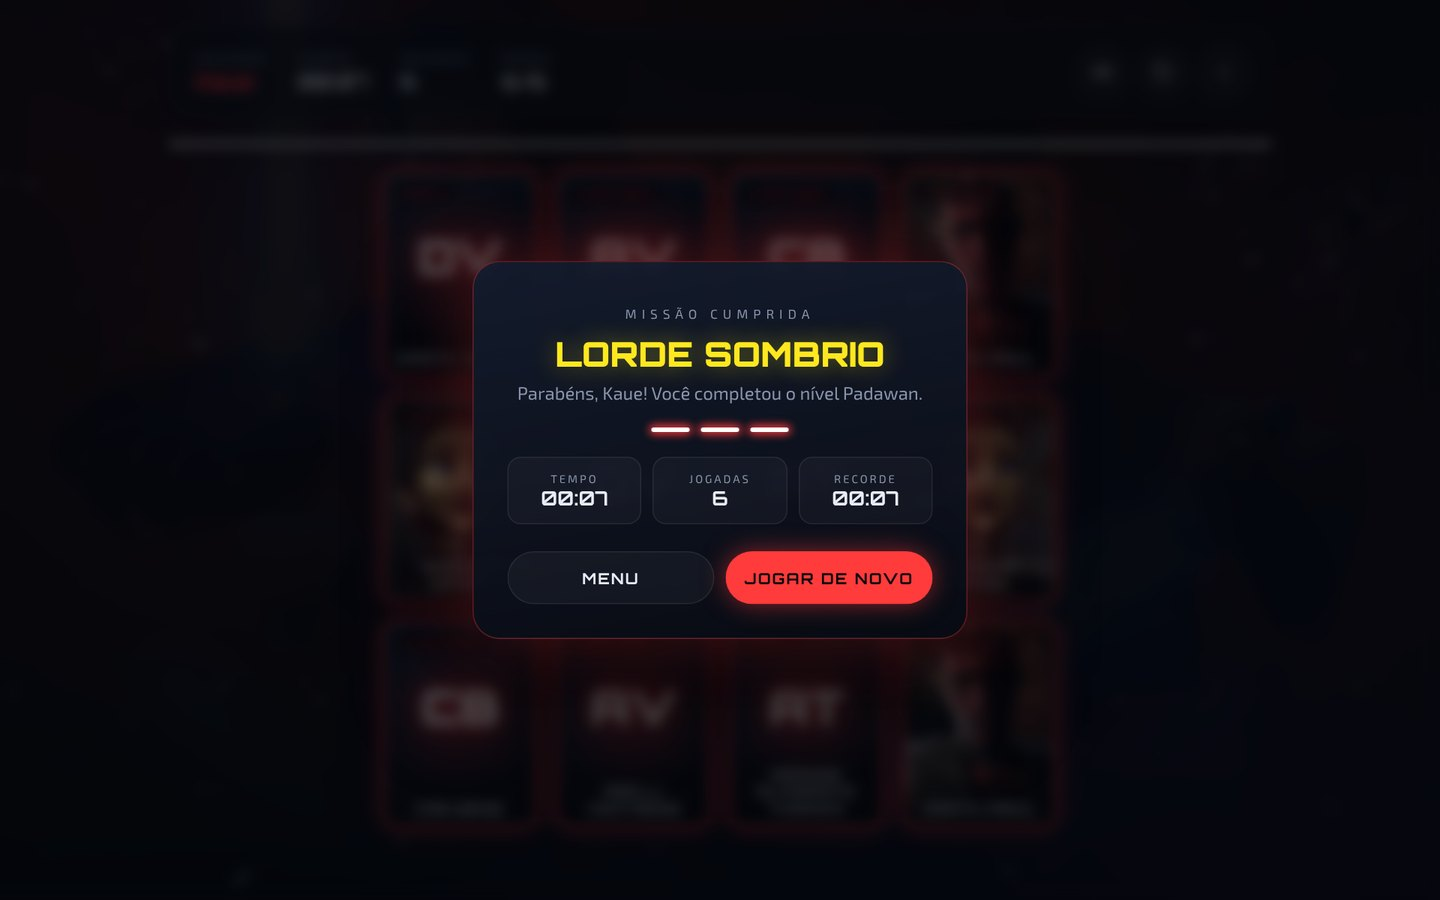
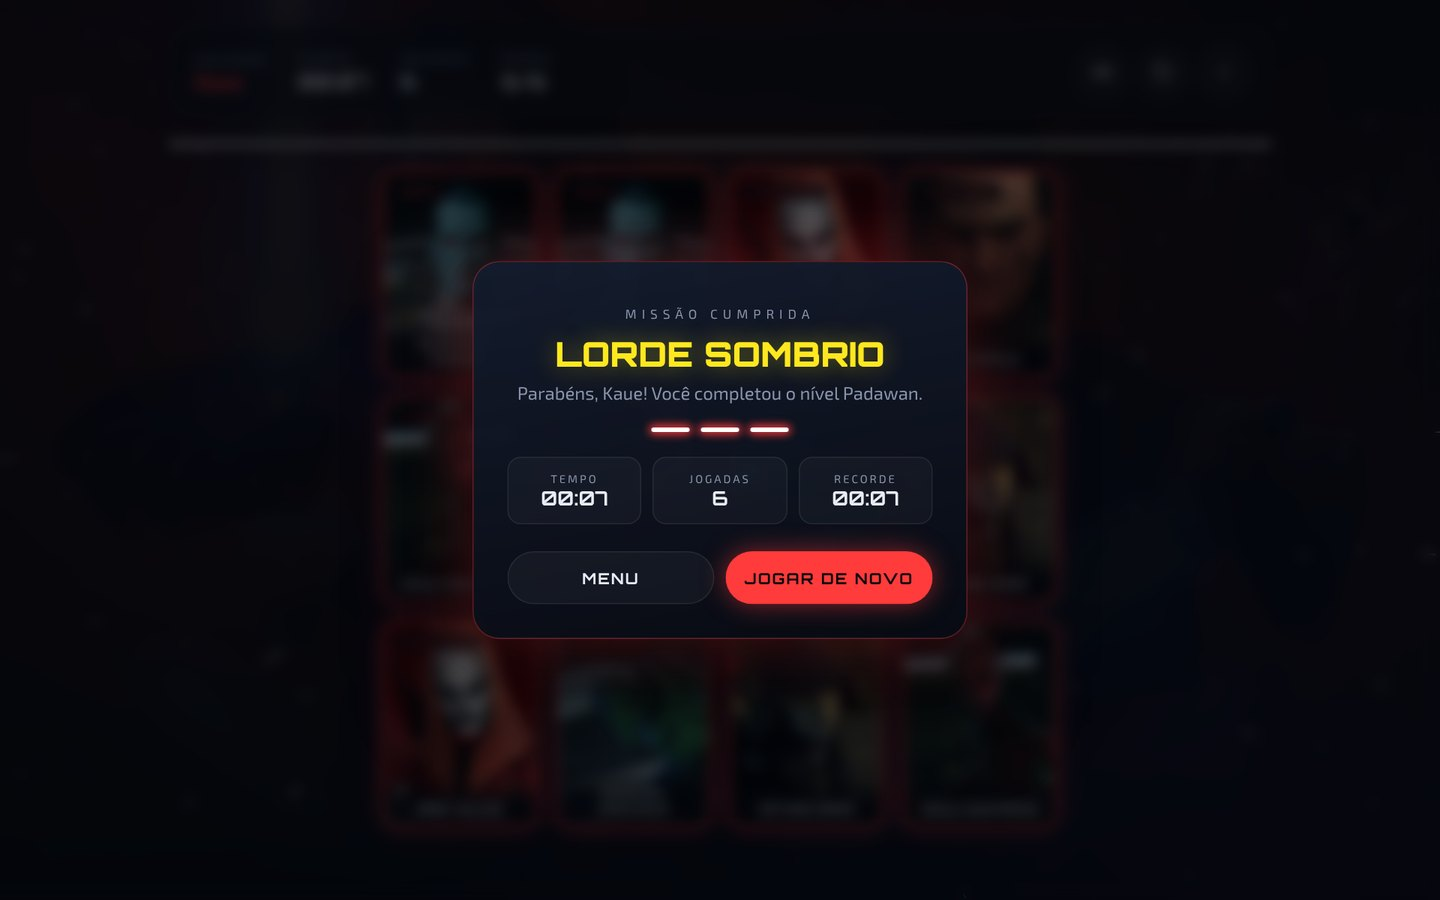
Add files via upload

diff --git a/css/game.css b/css/game.css
@@ -60,6 +60,7 @@
 }
 
 .stat--player .stat__value {
+  font-family: "Exo 2", sans-serif; /* nomes com acento (ã, õ) */
   color: var(--saber);
   text-shadow: 0 0 12px rgba(var(--saber-rgb), 0.5);
   max-width: 220px;
@@ -116,6 +117,7 @@
   background: none;
   cursor: pointer;
   transform-style: preserve-3d;
+  container-type: inline-size;
   /* animação de entrada (distribuição das cartas) */
   opacity: 0;
   animation: deal 0.6s var(--ease-spring) forwards;
@@ -218,7 +220,7 @@
   border-radius: 999px;
   background: rgba(5, 7, 13, 0.75);
   color: var(--saber);
-  font-size: clamp(0.45rem, 0.9vw, 0.6rem);
+  font-size: clamp(6px, 6.5cqi, 10px);
   font-weight: 600;
   letter-spacing: 0.12em;
   text-transform: uppercase;
@@ -249,12 +251,13 @@
 .face__name {
   position: absolute;
   inset: auto 0 0;
-  padding: 26px 8px 8px;
-  background: linear-gradient(transparent, rgba(5, 7, 13, 0.92));
-  font-family: "Orbitron", sans-serif;
-  font-size: clamp(0.5rem, 1.1vw, 0.72rem);
-  font-weight: 700;
-  letter-spacing: 0.1em;
+  padding: 22px 6px 7px;
+  background: linear-gradient(transparent, rgba(5, 7, 13, 0.95) 55%);
+  font-family: "Exo 2", sans-serif;
+  font-size: clamp(7px, 9.5cqi, 13px); /* acompanha a largura da carta */
+  font-weight: 600;
+  line-height: 1.15;
+  letter-spacing: 0.03em;
   text-align: center;
   text-transform: uppercase;
 }
@@ -337,9 +340,10 @@
   background: var(--panel);
   backdrop-filter: blur(10px);
   -webkit-backdrop-filter: blur(10px);
-  font-family: "Orbitron", sans-serif;
-  font-size: 0.8rem;
-  letter-spacing: 0.12em;
+  font-family: "Exo 2", sans-serif;
+  font-size: 0.85rem;
+  font-weight: 600;
+  letter-spacing: 0.1em;
   text-transform: uppercase;
   box-shadow: 0 0 24px rgba(var(--saber-rgb), 0.3);
   transform: translate(-50%, 120px);

diff --git a/js/game.js b/js/game.js
@@ -213,7 +213,7 @@ const checkPair = () => {
     sparks(second);
 
     const name = CHARACTERS.find((c) => c.id === first.dataset.character).name;
-    showToast(`${name} encontrado`);
+    showToast(`Par encontrado: ${name}`);
 
     resetTurn();
 

diff --git a/README.md b/README.md
@@ -321,7 +321,7 @@ stateDiagram-v2
 <a name="s8"></a>
 <p align="center"><img src="starwars-readme-arquivos/fx/secao-08.svg" alt="08. Novos personagens" width="100%"></p>
 
-Os baralhos ficam em `js/characters.js`. Cada personagem usa a imagem `images/<id>.jpg`:
+Hoje **os 36 personagens já têm imagem**. Os baralhos ficam em `js/characters.js`, e cada personagem usa a imagem `images/<id>.jpg`:
 
 ```js
 { id: 'vader', name: 'Darth Vader', series: 'Rebels' }
